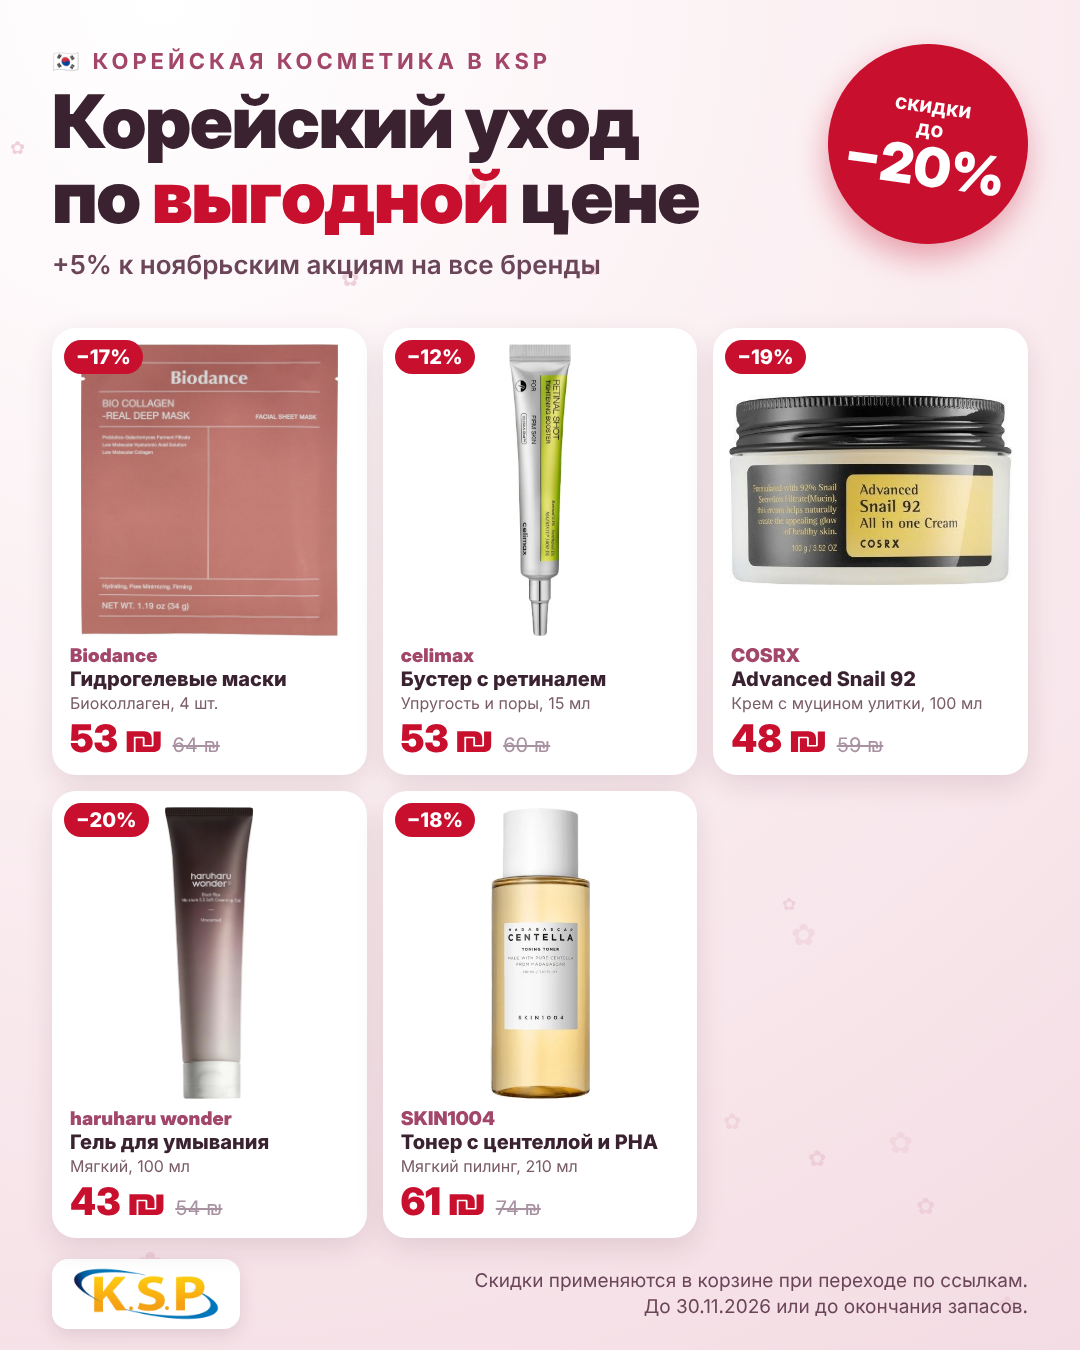
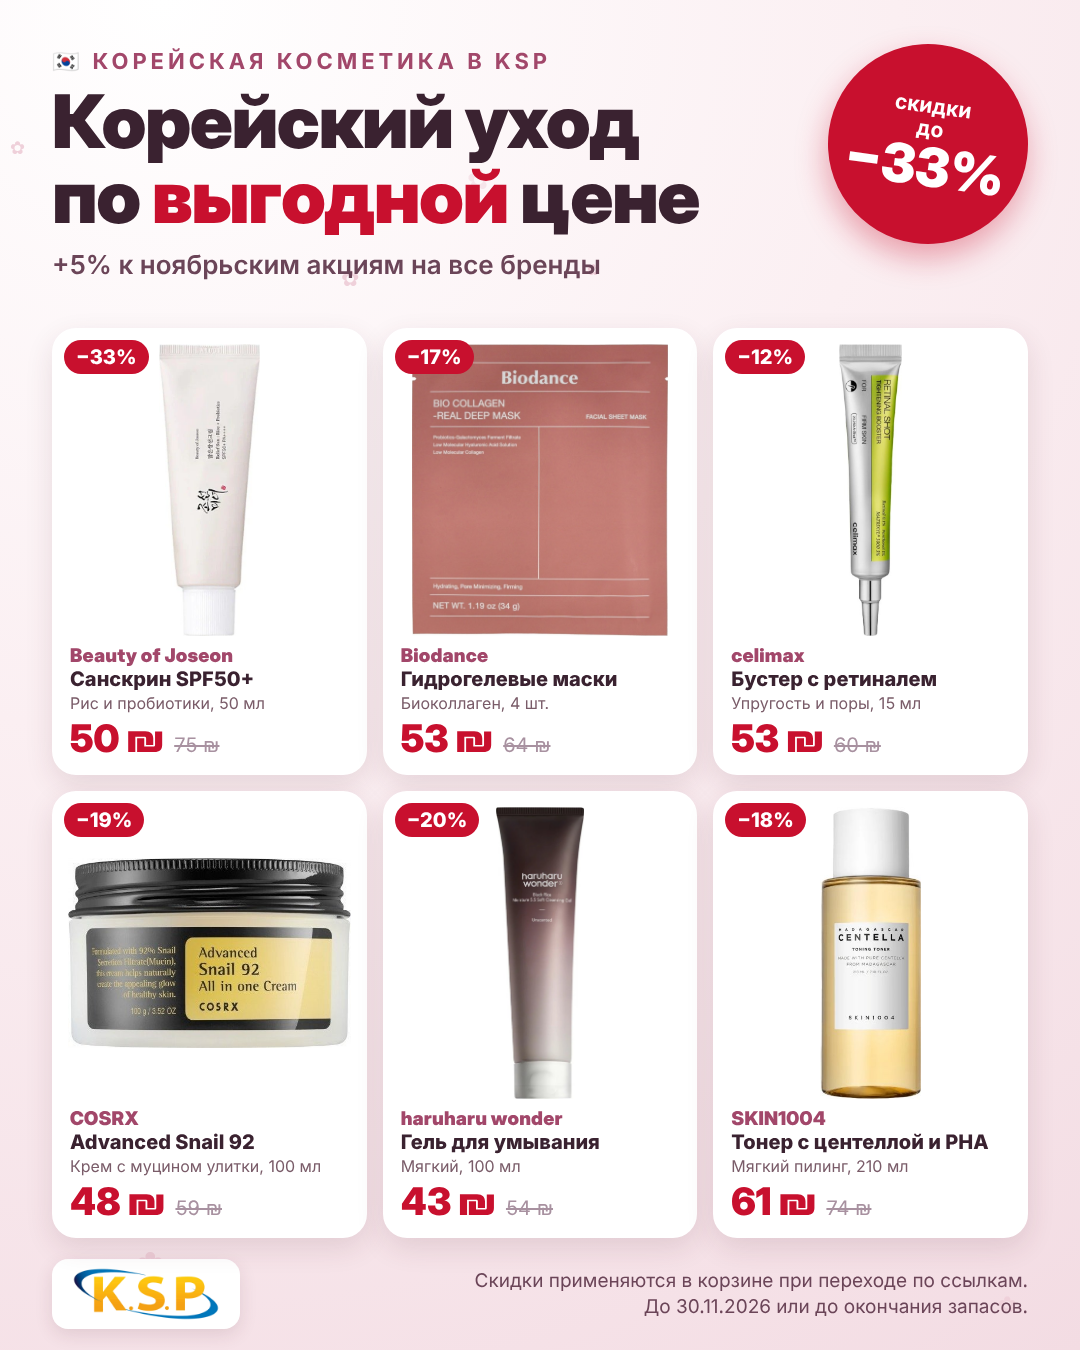
Add Beauty of Joseon sunscreen to Korean cosmetics promo
Claude-Session: https://claude.ai/code/session_01G3xLikWFack3bze3pWJxPE

diff --git a/ksp-kbeauty-promo/render.js b/ksp-kbeauty-promo/render.js
@@ -9,7 +9,7 @@ const has = (f) => fs.existsSync(path.join(dir, 'src', f));
 const img = (f) => 'file://' + path.join(dir, 'src', f);
 
 const P = [
-  { wm: 'Beauty of Joseon', name: 'Солнцезащитный крем SPF50', size: 'Рис и пробиотики, 50 мл', img: 'beauty-of-joseon-spf50.jpg', now: '50', was: '75' },
+  { wm: 'Beauty of Joseon', name: 'Санскрин SPF50+', size: 'Рис и пробиотики, 50 мл', img: 'beauty-of-joseon-spf50.jpg', now: '50', was: '75' },
   { wm: 'Biodance', name: 'Гидрогелевые маски', size: 'Биоколлаген, 4 шт.', img: 'biodance-mask.jpg', now: '53', was: '64' },
   { wm: 'celimax', name: 'Бустер с ретиналем', size: 'Упругость и поры, 15 мл', img: 'celimax-retinal.jpg', now: '53', was: '60' },
   { wm: 'COSRX', name: 'Advanced Snail 92', size: 'Крем с муцином улитки, 100 мл', img: 'cosrx-snail92.jpg', now: '48', was: '59' },
